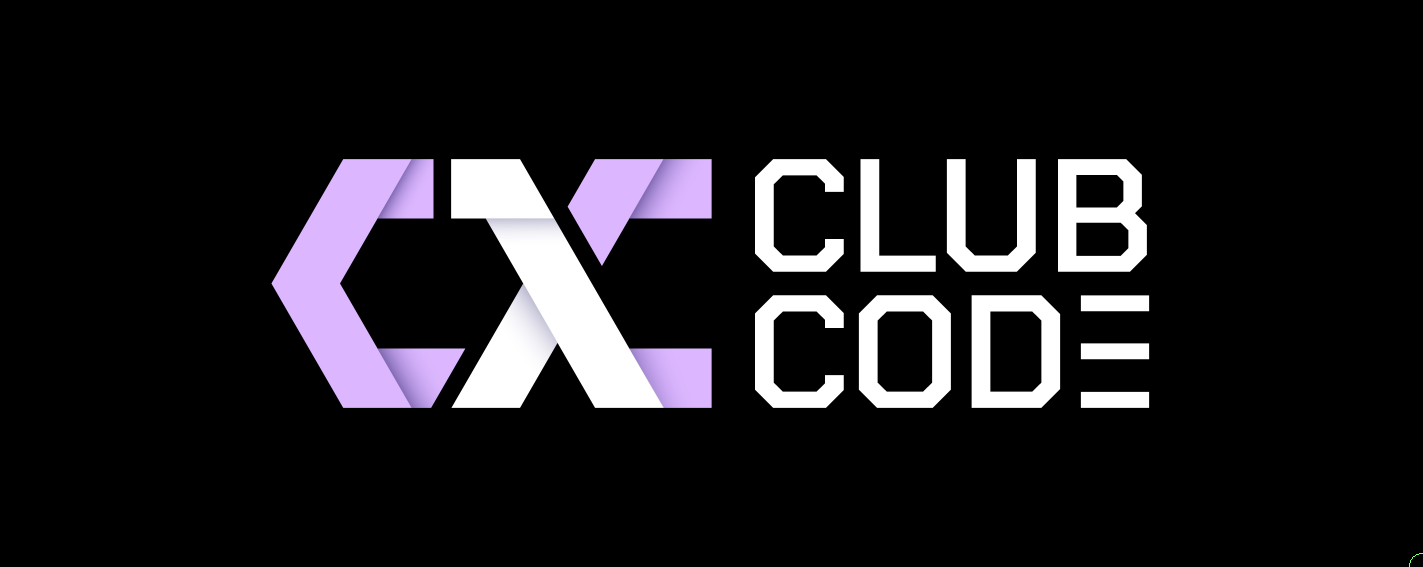
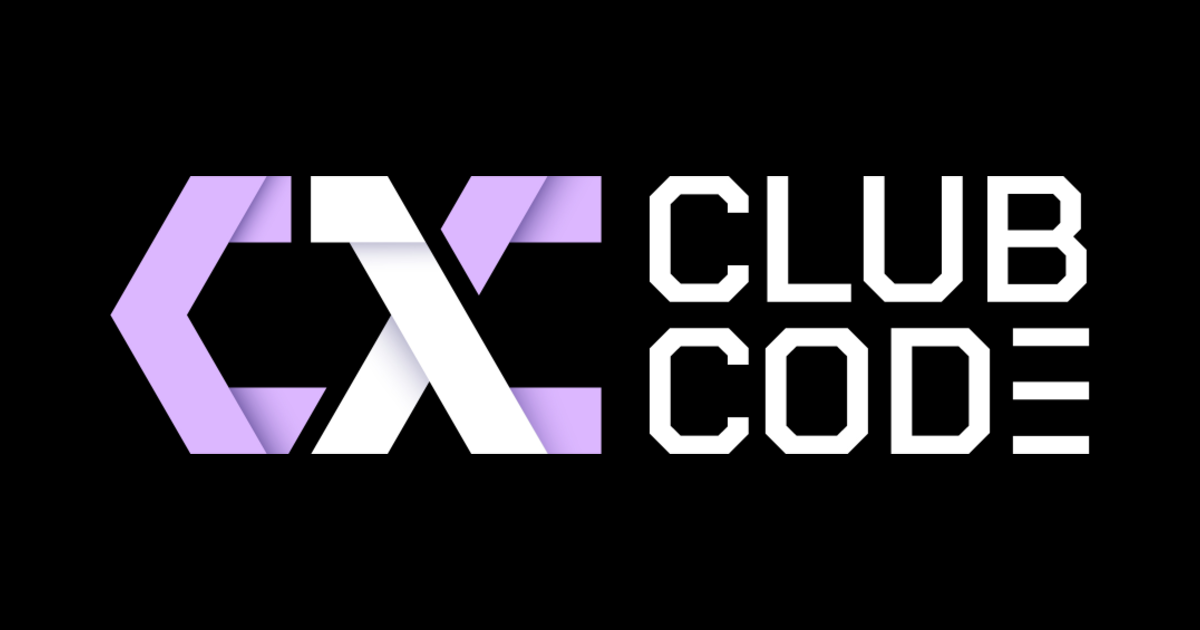
feat: optimize SEO

diff --git a/src/i18n/en.ts b/src/i18n/en.ts
@@ -1,6 +1,6 @@
 export const en = {
   meta: {
-    title: 'Club Code • Télécom SudParis',
+    title: 'Club Code — The programming club of Télécom SudParis',
     description:
       'The programming club of Télécom SudParis. Competitive programming, web services for the campus, physical infrastructure and more.',
   },

diff --git a/src/i18n/fr.ts b/src/i18n/fr.ts
@@ -1,6 +1,6 @@
 export const fr = {
   meta: {
-    title: 'Club Code • Télécom SudParis',
+    title: 'Club Code — Le club de programmation de Télécom SudParis',
     description:
       "Le club de programmation de Télécom SudParis. Programmation compétitive, services web pour le campus, infrastructure physique et plus encore.",
   },